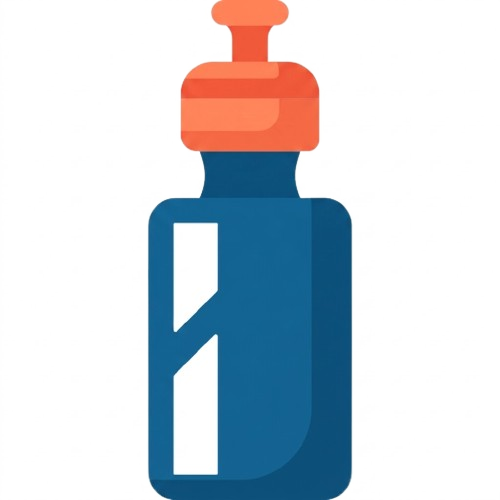
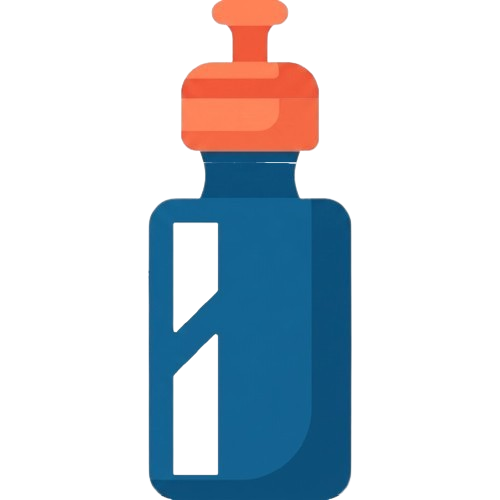
add melhoras

diff --git a/main.py b/main.py
@@ -22,11 +22,18 @@ lista_vidas = [Vida(resource_path('src/img/garrafa_azul.png')),
                Vida(resource_path('src/img/garrafa_verde.png')),
                Vida(resource_path('src/img/garrafa_vermelha.png'))]
 
+lista_inimigos = [Inimigo(resource_path('src/img/refri.png')),
+                  Inimigo(resource_path('src/img/hamburguer.png')),
+                  Inimigo(resource_path('src/img/batata.png'))]
+
 status_jogo = "INICIO"
 
-fundo = pygame.image.load(resource_path("src/img/fundo.png"))
+fundo = pygame.image.load(resource_path("src/img/fundo2.png"))
 fundo = pygame.transform.scale(fundo,(1200,800))
-inicio = pygame.image.load(resource_path("src/img/inicio.png"))
+inicio = pygame.image.load(resource_path(""))
+perdeu = pygame.image.load(resource_path("src/img/perdeu.png"))
+ganhou = pygame.image.load(resource_path("src/img/ganhou.png"))
+
 
 
 
@@ -71,19 +78,39 @@ while rodando:
             vida.andar()
             vida.exibir(tela)
 
-            if coelho.contorno.overlap(vida.contorno,(vida.pos_imagem_x - coelho.pos_imagem_x,vida.pos_imagem_y - coelho.pos_imagem_y)):
-                mortes += 1
+            if coelho.mascara.overlap(vida.mascara,(vida.pos_imagem_x - coelho.pos_imagem_x,vida.pos_imagem_y - coelho.pos_imagem_y)):
+                pontos += 1
                 vida.voltar()
         for inimigo in lista_inimigos:
             inimigo.andar()
             inimigo.exibir(tela)
 
-            if coelho.contorno.overlap(inimigo.contorno,(inimigo.pos_imagem_x - coelho.pos_imagem_x,inimigo.pos_maca_y - coelho.pos_imagem_y)):
-                mortes -= 1
-                coelho.morte()
+            if coelho.mascara.overlap(inimigo.mascara,(inimigo.pos_imagem_x - coelho.pos_imagem_x,inimigo.pos_imagem_y - coelho.pos_imagem_y)):
+                vidas -= 1
+                inimigo.voltar()
+                inimigo.exibir(tela)
                 coelho.voltar()
-                if mortes == 0:
+                if vidas == 0:
                     status_jogo = "PERDEU"
+    
+    if status_jogo == "PERDEU":
+        tela.blit(perdeu,(0,0))
+        if tecla_pressionada [pygame.K_RETURN]or tecla_pressionada [pygame.K_KP_ENTER]:
+            status_jogo = "INICIO"
+            vidas = 3
+            pontos = 0 
+
+    if pontos == 7:
+            status_jogo = "VITORIA"
+
+    if status_jogo == "VITORIA":
+        tela.blit(ganhou,(0,0))
+        if tecla_pressionada [pygame.K_RETURN]or tecla_pressionada [pygame.K_KP_ENTER]:
+            status_jogo = "INICIO"
+            vidas = 3
+            pontos = 0                   
+            
+
 
 
   

diff --git a/classe_garrafinha.py b/classe_garrafinha.py
@@ -7,26 +7,26 @@ class Vida:
         self.imagem = pygame.image.load(endereco_imagem)
         self.imagem = pygame.transform.scale(self.imagem,(60,60))
 
-        self.pos_maca_y = 0
+        self.pos_imagem_y = 0
         self. lugares = [300,400,500,600,700,800,900,1000]
-        self.pos_maca_x = random.choice(self.lugares)
+        self.pos_imagem_x = random.choice(self.lugares)
         self.velocidade = random.randint(5,8)
 
-        self.contorno = pygame.mask.from_surface(self.imagem)
+        self.mascara = pygame.mask.from_surface(self.imagem)
 
 
     def andar(self):
-        self.pos_maca_y = self.pos_maca_y + self.velocidade
-        if self.pos_maca_y>= 1000:
+        self.pos_imagem_y = self.pos_imagem_y + self.velocidade
+        if self.pos_imagem_y>= 1000:
             self.voltar()
 
    
 
 
     def exibir(self, tela_do_jogo):
-        tela_do_jogo.blit(self.imagem,(self.pos_maca_x,self.pos_maca_y))
+        tela_do_jogo.blit(self.imagem,(self.pos_imagem_x,self.pos_imagem_y))
 
     def voltar (self):
-        self.pos_maca_y = 0
-        self.pos_maca_x = random.choice(self.lugares)
+        self.pos_imagem_y = 0
+        self.pos_imagem_x = random.choice(self.lugares)
         self.velocidade = random.randint(5,14)

diff --git a/classe_jogador.py b/classe_jogador.py
@@ -14,7 +14,7 @@ class Jogador:
         self.imagem = pygame.transform.scale(self.imagem,(200,200))
         self.mascara = pygame.mask.from_surface(self.imagem)
 
-        self.pos_imagem_x = 520
+        self.pos_imagem_x = 100
         self.pos_imagem_y = 520
         
 
@@ -31,6 +31,6 @@ class Jogador:
 
     def voltar (self):
         self.pos_imagem_x = 100
-        self.pos_imagem_y = 100
+        self.pos_imagem_y = 520
 
     

diff --git a/classe_inimigo.py b/classe_inimigo.py
@@ -9,10 +9,10 @@ class Inimigo:
 
         self.pos_imagem_y = 0
         self. lugares = [300,400,500,600,700,800,900,1000]
-        self.pos_maca_x = random.choice(self.lugares)
+        self.pos_imagem_x = random.choice(self.lugares)
         self.velocidade = random.randint(5,8)
 
-        self.contorno = pygame.mask.from_surface(self.imagem)
+        self.mascara = pygame.mask.from_surface(self.imagem)
 
 
     def andar(self):
